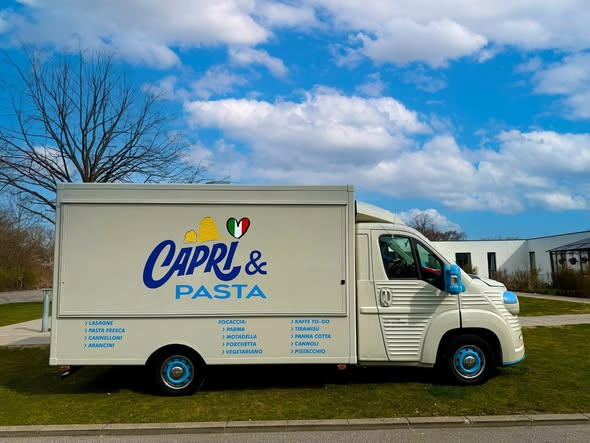
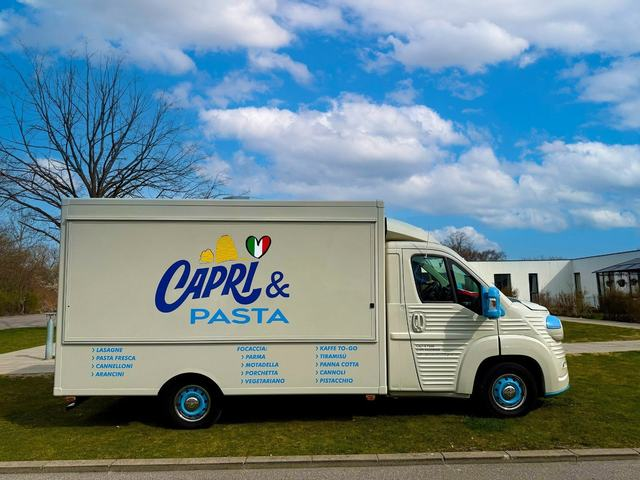
feat: full-resolution album photos, eight-tile gallery with hover captions
Photos fetched from the public album pages at up to 2048 px, exact and
near duplicates removed, one shot per dish; hero now 1600x1200; gallery
tiles 640x480 with bilingual captions that slide in on hover (zoom, others
dim), always visible on touch, no motion under reduced-motion.

diff --git a/index.html b/index.html
@@ -69,7 +69,7 @@
 
   <main id="main">
     <section class="hero" aria-labelledby="hero-title">
-      <img class="hero-img" src="assets/img/hero.jpg" alt="Capri&amp;Pasta food trucken med åben serveringsside" data-da="Capri&amp;Pasta food trucken med åben serveringsside" data-en="The Capri&amp;Pasta food truck with its serving side open" data-i18n-attr="alt" width="960" height="720">
+      <img class="hero-img" src="assets/img/hero.jpg" alt="Capri&amp;Pasta food trucken med åben serveringsside" data-da="Capri&amp;Pasta food trucken med åben serveringsside" data-en="The Capri&amp;Pasta food truck with its serving side open" data-i18n-attr="alt" width="1600" height="1200">
       <div class="hero-overlay" aria-hidden="true"></div>
       <div class="container hero-content">
         <p class="eyebrow"><span lang="da">Italiensk food truck</span><span lang="en">Italian food truck</span></p>
@@ -153,10 +153,14 @@
       <div class="container">
         <h2 id="gallery-title"><span lang="da">Galleri</span><span lang="en">Gallery</span></h2>
         <div class="gallery-grid">
-          <figure><img src="assets/img/gallery-1.jpg" alt="Capri&amp;Pasta food trucken set fra siden med logoet" data-da="Capri&amp;Pasta food trucken set fra siden med logoet" data-en="The Capri&amp;Pasta food truck seen from the side with the logo" data-i18n-attr="alt" width="590" height="443" loading="lazy"></figure>
-          <figure><img src="assets/img/gallery-2.jpg" alt="Rigatoni i tomatsauce med basilikum og parmesan" data-da="Rigatoni i tomatsauce med basilikum og parmesan" data-en="Rigatoni in tomato sauce with basil and parmesan" data-i18n-attr="alt" width="443" height="590" loading="lazy"></figure>
-          <figure><img src="assets/img/gallery-3.jpg" alt="Focaccia med grillede grøntsager og stracciatella" data-da="Focaccia med grillede grøntsager og stracciatella" data-en="Focaccia with grilled vegetables and stracciatella" data-i18n-attr="alt" width="443" height="590" loading="lazy"></figure>
-          <figure><img src="assets/img/gallery-4.jpg" alt="Pizza med aubergine, cherrytomater og basilikum" data-da="Pizza med aubergine, cherrytomater og basilikum" data-en="Pizza with aubergine, cherry tomatoes and basil" data-i18n-attr="alt" width="443" height="590" loading="lazy"></figure>
+          <figure><img src="assets/img/gallery-1.jpg" alt="Vores food truck" data-da="Vores food truck" data-en="Our food truck" data-i18n-attr="alt" width="640" height="480" loading="lazy"><figcaption aria-hidden="true"><span lang="da">Vores food truck</span><span lang="en">Our food truck</span></figcaption></figure>
+          <figure><img src="assets/img/gallery-2.jpg" alt="Pizza med rucola og parmaskinke" data-da="Pizza med rucola og parmaskinke" data-en="Pizza with rocket and Parma ham" data-i18n-attr="alt" width="640" height="480" loading="lazy"><figcaption aria-hidden="true"><span lang="da">Pizza med rucola og parmaskinke</span><span lang="en">Pizza with rocket and Parma ham</span></figcaption></figure>
+          <figure><img src="assets/img/gallery-3.jpg" alt="Focaccia med grillede grøntsager" data-da="Focaccia med grillede grøntsager" data-en="Focaccia with grilled vegetables" data-i18n-attr="alt" width="640" height="480" loading="lazy"><figcaption aria-hidden="true"><span lang="da">Focaccia med grillede grøntsager</span><span lang="en">Focaccia with grilled vegetables</span></figcaption></figure>
+          <figure><img src="assets/img/gallery-4.jpg" alt="Focaccia med mortadella" data-da="Focaccia med mortadella" data-en="Focaccia with mortadella" data-i18n-attr="alt" width="640" height="480" loading="lazy"><figcaption aria-hidden="true"><span lang="da">Focaccia med mortadella</span><span lang="en">Focaccia with mortadella</span></figcaption></figure>
+          <figure><img src="assets/img/gallery-5.jpg" alt="Rigatoni i tomatsauce" data-da="Rigatoni i tomatsauce" data-en="Rigatoni in tomato sauce" data-i18n-attr="alt" width="640" height="480" loading="lazy"><figcaption aria-hidden="true"><span lang="da">Rigatoni i tomatsauce</span><span lang="en">Rigatoni in tomato sauce</span></figcaption></figure>
+          <figure><img src="assets/img/gallery-6.jpg" alt="Tagliatelle vendt i parmesanhjulet" data-da="Tagliatelle vendt i parmesanhjulet" data-en="Tagliatelle tossed in the parmesan wheel" data-i18n-attr="alt" width="640" height="480" loading="lazy"><figcaption aria-hidden="true"><span lang="da">Tagliatelle vendt i parmesanhjulet</span><span lang="en">Tagliatelle tossed in the parmesan wheel</span></figcaption></figure>
+          <figure><img src="assets/img/gallery-7.jpg" alt="Italienske desserter i glas" data-da="Italienske desserter i glas" data-en="Italian desserts in a glass" data-i18n-attr="alt" width="640" height="480" loading="lazy"><figcaption aria-hidden="true"><span lang="da">Italienske desserter i glas</span><span lang="en">Italian desserts in a glass</span></figcaption></figure>
+          <figure><img src="assets/img/gallery-8.jpg" alt="Cannoli" width="640" height="480" loading="lazy"><figcaption aria-hidden="true">Cannoli</figcaption></figure>
         </div>
       </div>
     </section>

diff --git a/styles.css b/styles.css
@@ -222,8 +222,38 @@ a { color: var(--blue); }
 
 /* Gallery */
 .gallery-grid { display: grid; grid-template-columns: repeat(2, 1fr); gap: 1rem; }
-.gallery-grid figure { margin: 0; }
-.gallery-grid img { width: 100%; aspect-ratio: 4 / 3; object-fit: cover; border-radius: 12px; }
+.gallery-grid figure { position: relative; margin: 0; overflow: hidden; border-radius: 12px; background: var(--bg); transition: opacity 250ms ease, box-shadow 250ms ease; }
+.gallery-grid img { width: 100%; aspect-ratio: 4 / 3; object-fit: cover; transition: transform 450ms ease; }
+.gallery-grid figcaption {
+  position: absolute;
+  left: 0;
+  right: 0;
+  bottom: 0;
+  padding: 1.4rem 0.9rem 0.7rem;
+  color: #fff;
+  font-size: 0.9rem;
+  font-weight: 600;
+  background: linear-gradient(180deg, rgba(20, 24, 40, 0) 0%, rgba(20, 24, 40, 0.8) 100%);
+  opacity: 0;
+  transform: translateY(100%);
+  transition: transform 300ms ease, opacity 300ms ease;
+}
+/* Hover: the tile under the pointer zooms and shows its caption, the others step back */
+@media (hover: hover) {
+  .gallery-grid figure:hover { box-shadow: 0 14px 30px rgba(27, 31, 42, 0.22); }
+  .gallery-grid figure:hover figcaption { opacity: 1; transform: none; }
+  .gallery-grid:hover figure:not(:hover) { opacity: 0.6; }
+}
+@media (hover: hover) and (prefers-reduced-motion: no-preference) {
+  .gallery-grid figure:hover img { transform: scale(1.06); }
+}
+/* Touch screens have no hover: keep the captions visible */
+@media (hover: none) {
+  .gallery-grid figcaption { opacity: 1; transform: none; }
+}
+@media (prefers-reduced-motion: reduce) {
+  .gallery-grid figure, .gallery-grid img, .gallery-grid figcaption { transition: none; }
+}
 
 /* Contact */
 .contact-list { display: grid; gap: 1rem; margin: 0; padding: 0; list-style: none; }

diff --git a/README.md b/README.md
@@ -62,15 +62,21 @@ The JSON-LD block at the end of `<head>` feeds Google. Keep it in sync.
 
 ## Swap images
 
-The current photos were downloaded from the public Facebook page at the size Facebook shows to logged-out visitors, so they are smaller than the originals. Replace them with the owner's original files under the same names; keep the file extension, or change it in `index.html` too.
+The photos come from the public Facebook page's photo album (full resolution, fetched through the public photo pages) and were exported to the sizes below with Pillow: centre-cropped to 4:3, JPEG quality about 76. To replace one, save the new photo under the same name; keep the file extension, or change it in `index.html` too.
 
-| File in `assets/img/` | Used for | Current size |
+| File in `assets/img/` | Used for | Size |
 | --- | --- | --- |
-| `hero.jpg` | Hero background: the truck with the serving side open | 960×720 (original wanted, at least 1600 wide) |
-| `gallery-1.jpg` | Gallery: the truck seen from the side with the logo | 590×443 |
-| `gallery-2.jpg` | Gallery: rigatoni in tomato sauce | 443×590 |
-| `gallery-3.jpg` | Gallery: focaccia with grilled vegetables | 443×590 |
-| `gallery-4.jpg` | Gallery: pizza | 443×590 |
+| `hero.jpg` | Hero background: the truck with the serving side open | 1600×1200 |
+| `gallery-1.jpg` | Gallery: the truck seen from the side with the logo | 640×480 |
+| `gallery-2.jpg` | Gallery: pizza with rocket and Parma ham | 640×480 |
+| `gallery-3.jpg` | Gallery: focaccia with grilled vegetables | 640×480 |
+| `gallery-4.jpg` | Gallery: focaccia with mortadella | 640×480 |
+| `gallery-5.jpg` | Gallery: rigatoni in tomato sauce | 640×480 |
+| `gallery-6.jpg` | Gallery: tagliatelle in the parmesan wheel | 640×480 |
+| `gallery-7.jpg` | Gallery: desserts in a glass | 640×480 |
+| `gallery-8.jpg` | Gallery: cannoli | 640×480 |
+
+Each gallery tile has a caption (`<figcaption>`) with a Danish/English pair that appears on mouse-over and is always visible on touch screens; the image `alt` carries the same text for screen readers.
 | `og-image.png` | Preview when the link is shared on Facebook | 1200×630, must stay this exact file name and PNG format — otherwise `og:image` and the JSON-LD `image` in `index.html`, and the og-image checks in the harness, must all be updated too |
 
 Export photos as JPEG, quality about 80, under 200 KB each. Portrait photos are fine: the gallery crops them to 4:3 in the browser. To add a tile, copy one of the `<figure>` lines in the gallery section of `index.html`, give it a new file name and a Danish/English alt pair (`data-da` / `data-en`); the grid handles any number of tiles. Update the alt text pair if the subject changes.
